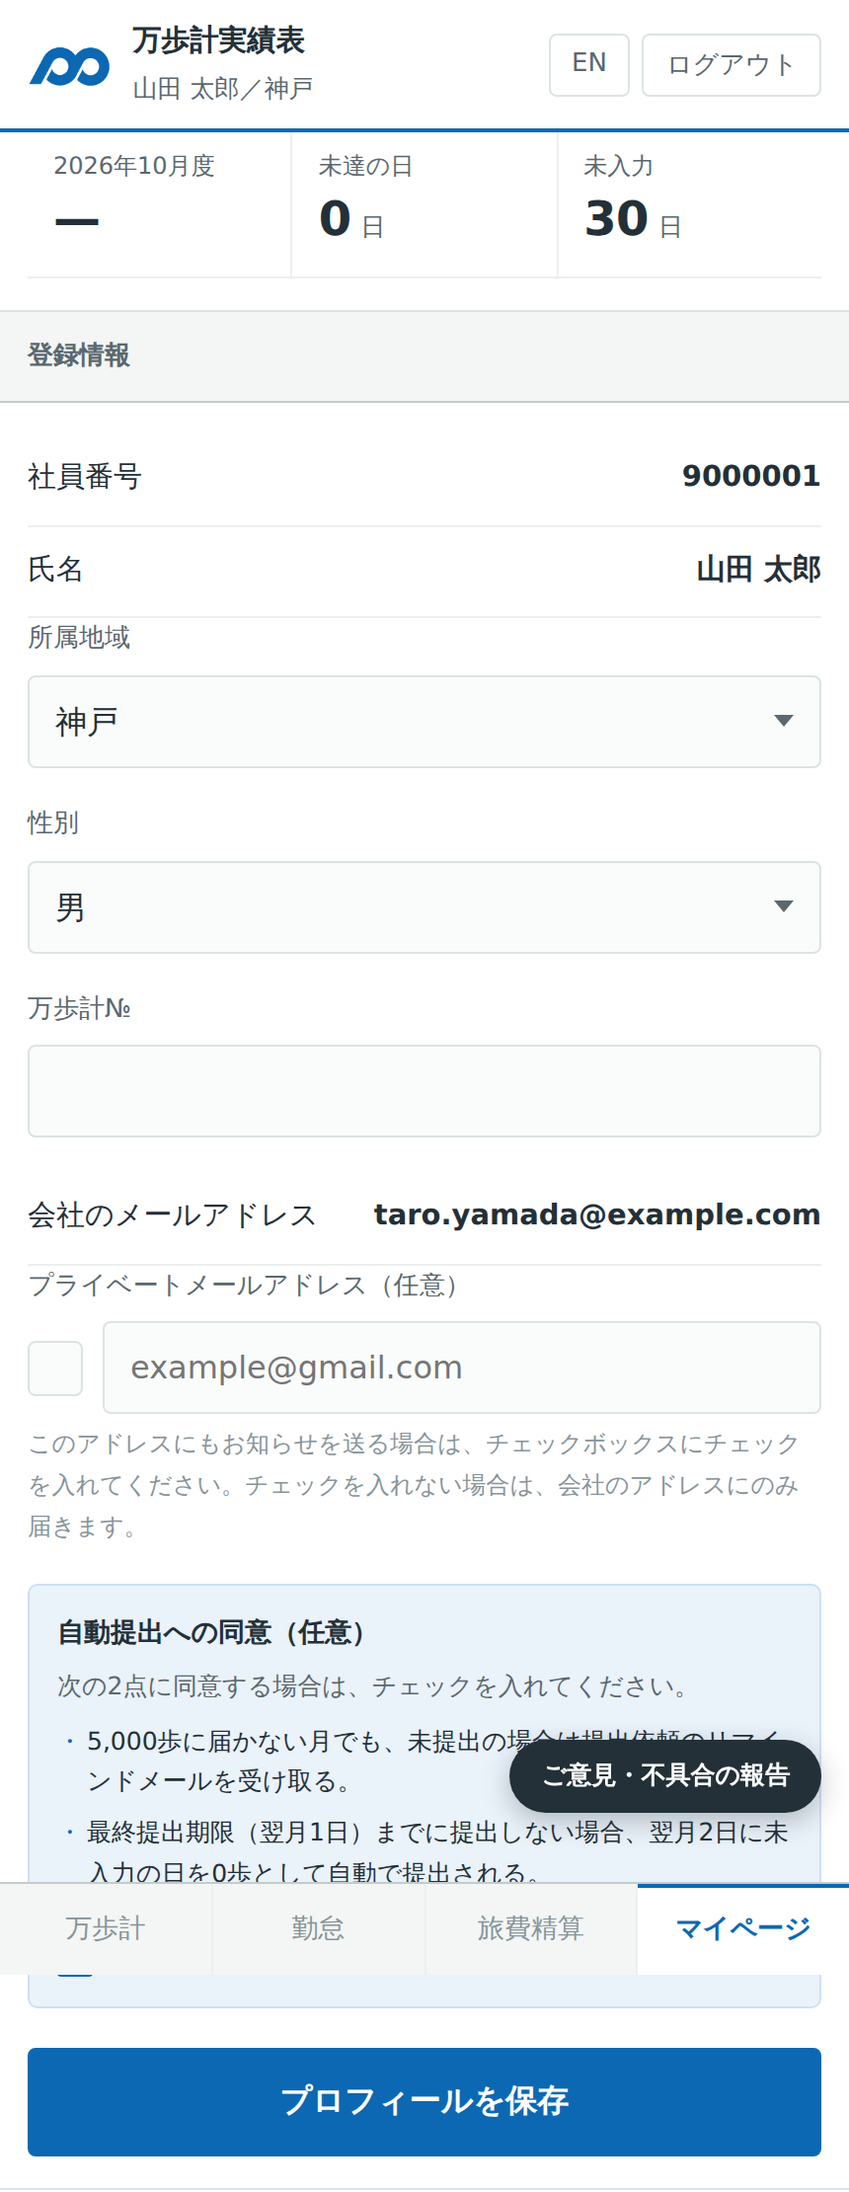
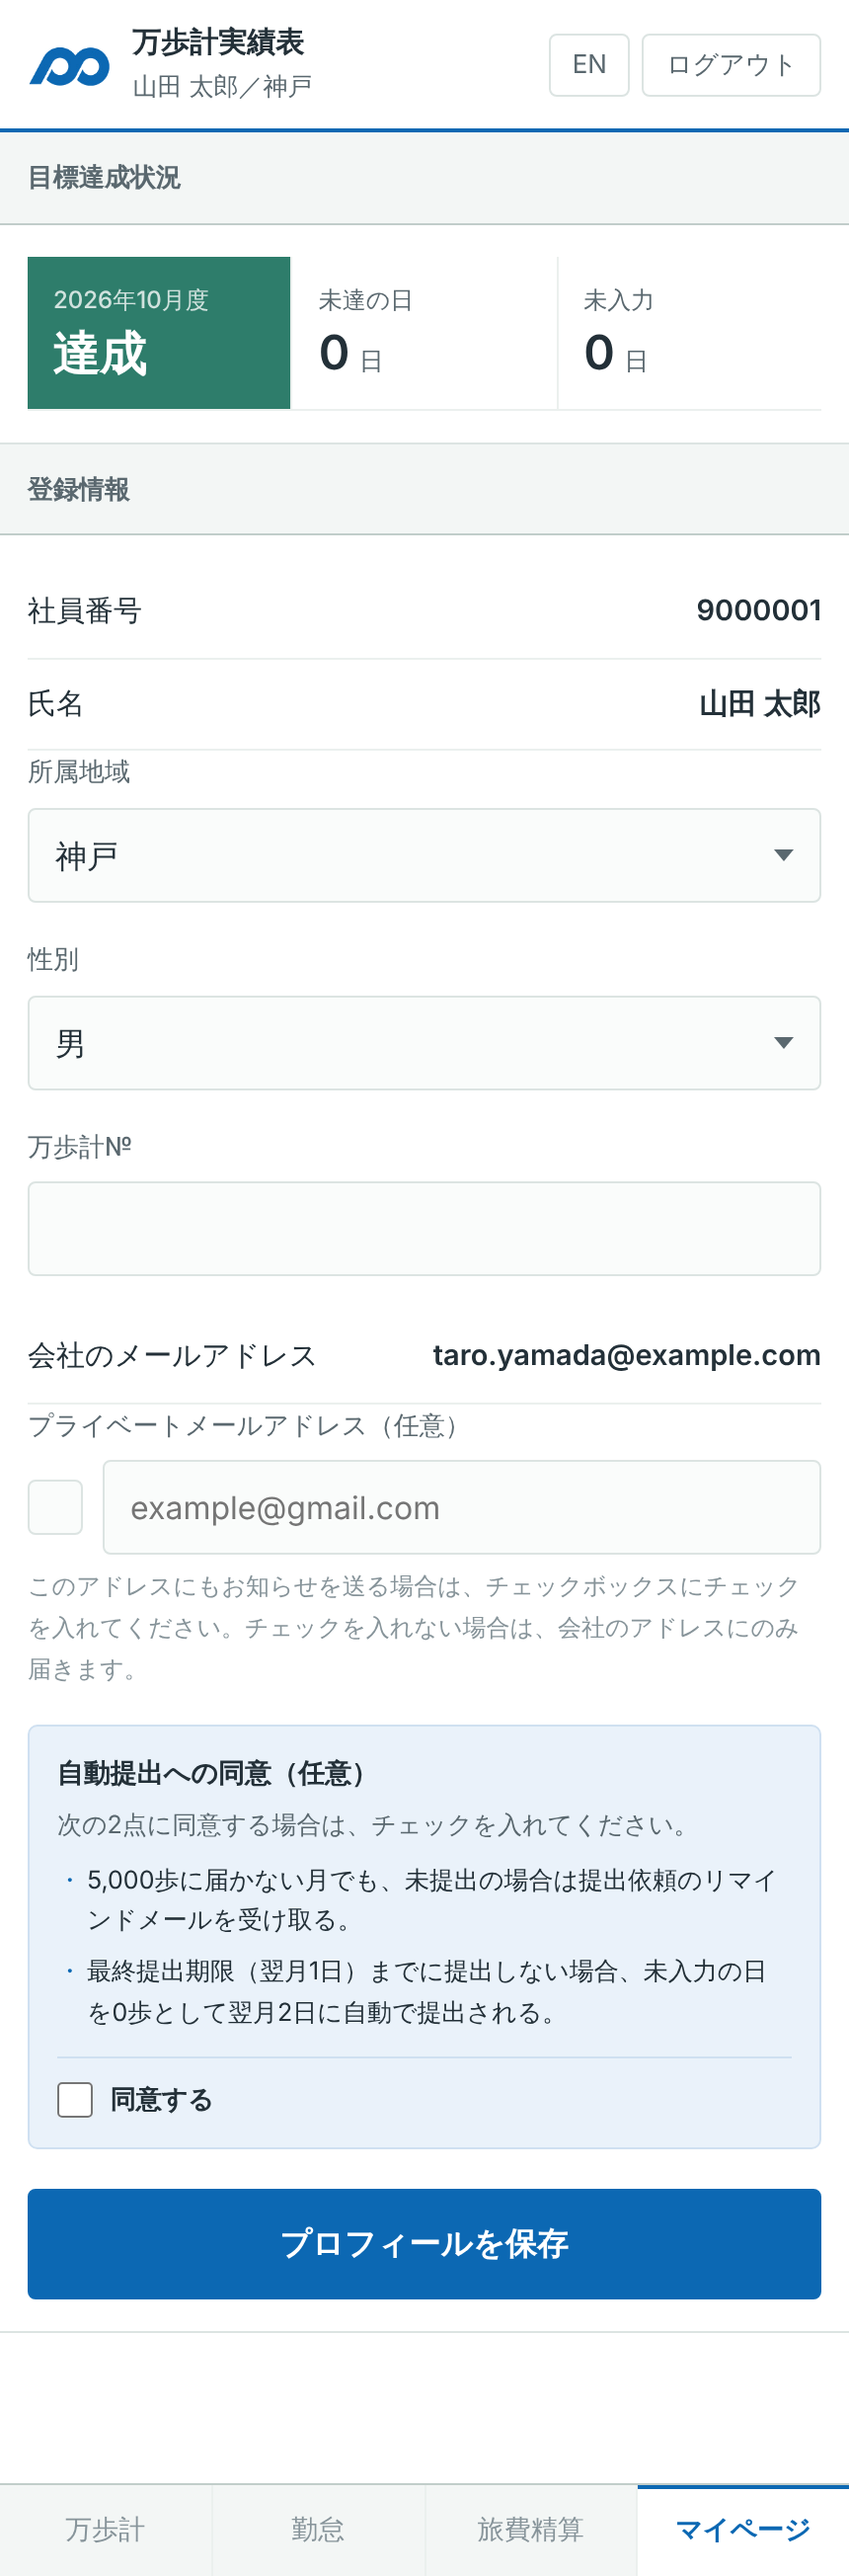
同意画面: say when the automatic submission happens, not just the deadline
佐野:「日にちがあった方がよいと思うのですが、どうでしょうか？ ↓ 翌月2日に を
追加して下さい。」 The second consent point named the deadline (翌月1日) but
never the day the submission actually runs. She marked the insertion point
herself, immediately before 自動で提出される:

  …提出しない場合、未入力の日を0歩として翌月2日に自動で提出される。

Her footnote 「マイページの文言も合わせて変更して下さい」 needs no second
edit — ConsentGate and ConsentPanel have always rendered the same string, so
both screens moved together. consent.png and mypage.png retaken to match.

The reminder email had the same gap and now carries the date too.

Claude-Session: https://claude.ai/code/session_01XMP6QTktT2ZH2brYbujzUP

diff --git a/src/App.jsx b/src/App.jsx
@@ -118,7 +118,12 @@ const STR = {
   /* 佐野's note on the manual: say when it happens, not just by when it
      must not. The same string is on the consent screen and on マイページ,
      so both read alike — which is the other half of what she asked for. */
-  consentPoint2: ['最終提出期限（翌月1日）までに提出しない場合、翌月2日に未入力の日を0歩として自動で提出される。', 'If you do not submit by the final deadline (the 1st of next month), your record is submitted automatically on the 2nd with blank days counted as 0 steps.'],
+  /* 佐野:「日にちがあった方がよいと思うのですが、どうでしょうか？」 She drew the
+     insertion point herself — 翌月2日に immediately before 自動で提出される, so
+     the sentence names the deadline and then the day the submission happens.
+     ConsentPanel (マイページ) and ConsentGate share this string, which is her
+     「マイページの文言も合わせて変更して下さい」 already answered. */
+  consentPoint2: ['最終提出期限（翌月1日）までに提出しない場合、未入力の日を0歩として翌月2日に自動で提出される。', 'If you do not submit by the final deadline (the 1st of next month), your record is submitted automatically on the 2nd of the following month, with blank days counted as 0 steps.'],
   consentAgree: ['同意する', 'I agree'],
   unsubmitted: ['未提出', 'Outstanding'],
   reminders: ['未提出・リマインド', 'Reminders'],

diff --git a/src/mail.js b/src/mail.js
@@ -73,7 +73,7 @@ export function reminderMail(o) {
   const subject = `【健康対策委員会】万歩計実績表 未提出のお知らせ（${y}年${m}月度）／ Pedometer record not yet submitted`;
 
   const consentJa = consent
-    ? '\n※ご同意いただいている設定により、期限までにご提出がない場合は、未入力の日を0歩として自動的に提出されます。'
+    ? '\n※ご同意いただいている設定により、期限までにご提出がない場合は、未入力の日を0歩として翌月2日に自動的に提出されます。'
     : '';
   const consentEn = consent
     ? '\nBased on the consent you gave at sign-in, if nothing is submitted by the deadline your record will be submitted automatically with blank days counted as 0.'
